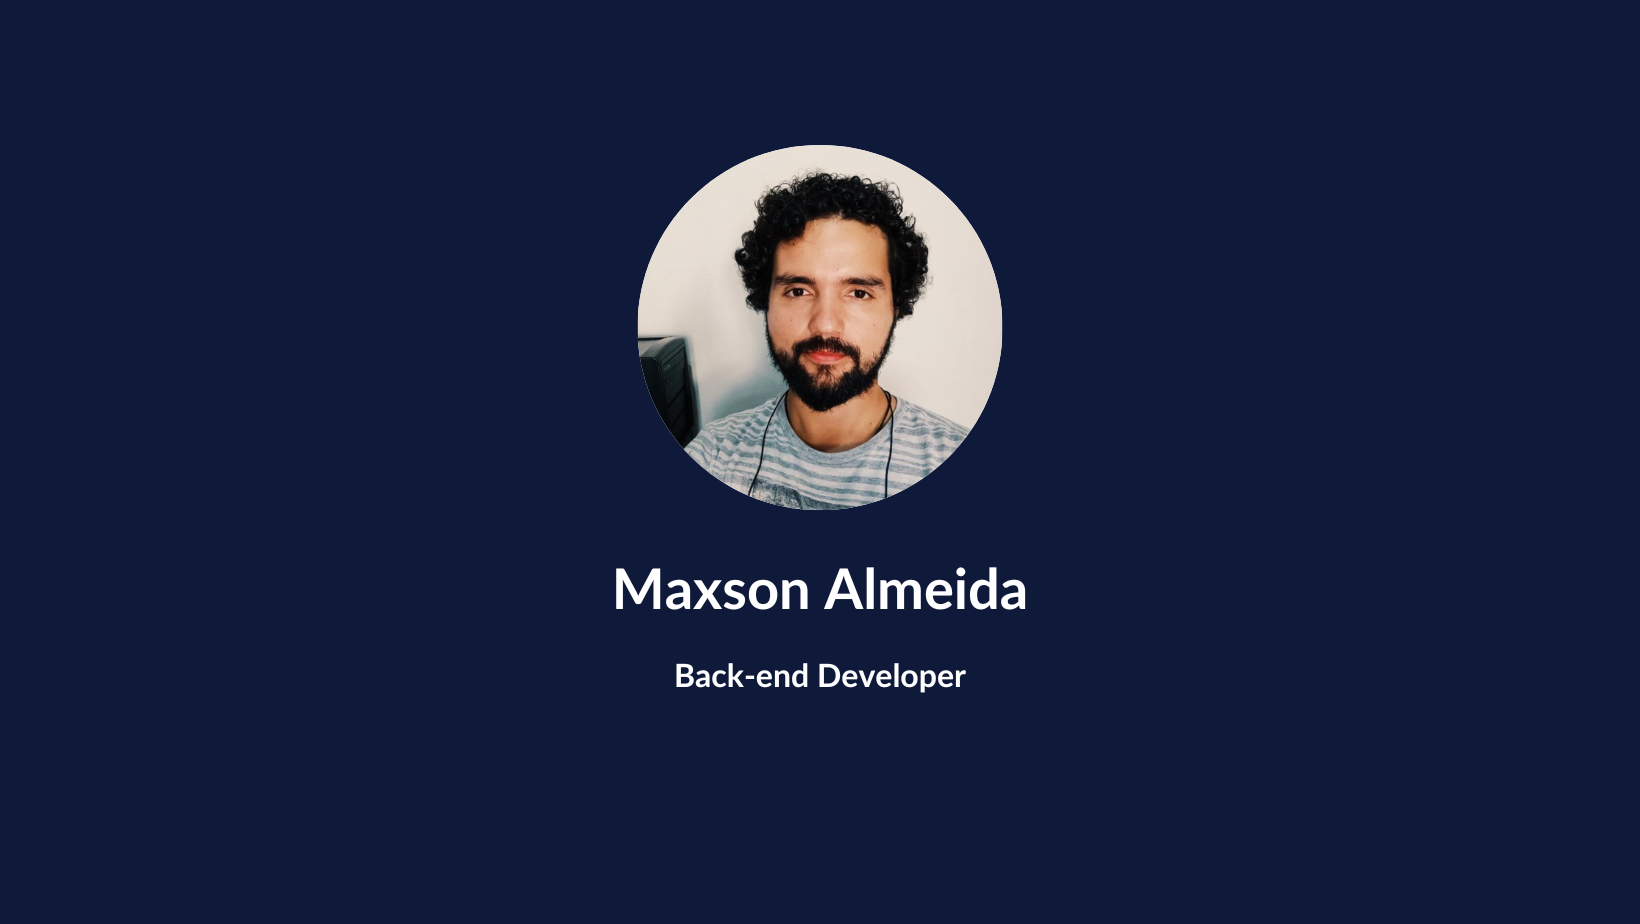
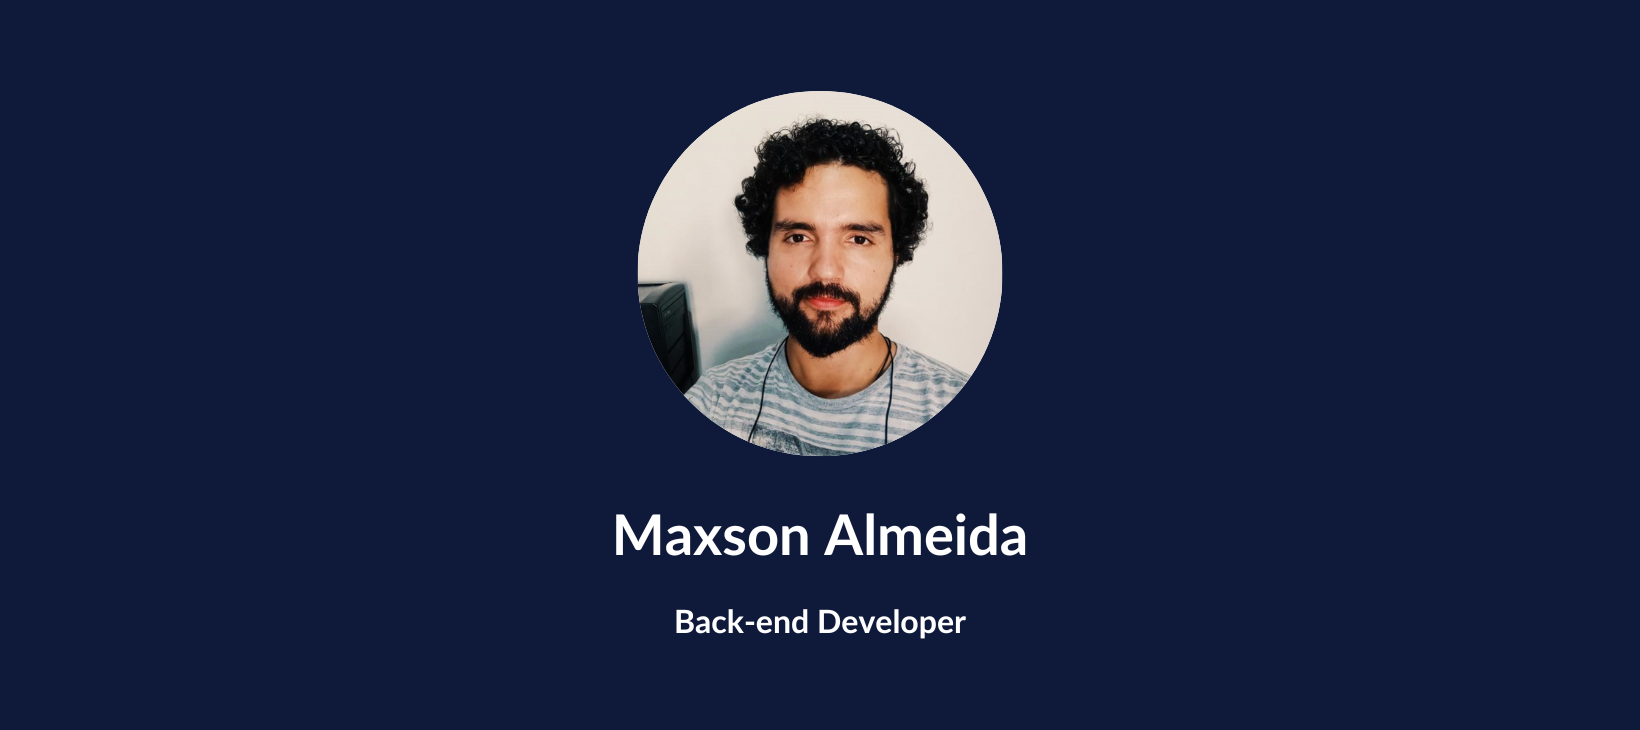
fix bug na pagina sobre

Changed region(s): [[0.3732, 0.1205, 0.653, 0.663], [0.3732, 0.6932, 0.653, 0.7836], [0.4043, 0.8438, 0.5909, 0.874]]

diff --git a/src/app/page.tsx b/src/app/page.tsx
@@ -13,6 +13,7 @@ import { Divider } from "@/components/divider";
 import avatar from "../../public/avatar.png";
 
 import linkBioLogo from "../imagens/projects/link.png";
+import apiRestNodeJS from "../imagens/projects/api.png";
 
 export default function Home() {
   return (
@@ -52,7 +53,9 @@ export default function Home() {
               <Link href="/about">Mais sobre mim</Link>
             </Button>
             <Button variant="outline" asChild>
-              <a href="/MaxsonAlmeidaBack-endDeveloper.pdf" target="_blank">
+              <a 
+              className='font-mono text-base text-text-contrast sm:text-lg'
+              href="/MaxsonAlmeidaBack-endDeveloper.pdf" target="_blank">
                 Currículo
               </a>
             </Button> 
@@ -68,11 +71,11 @@ export default function Home() {
         </h2>
 
         <div className="mt-14 flex flex-col gap-16 sm:gap-26">
+          {/* Projeto Link Bio */}
           <div
             key="1"
             className={clsx("relative flex", {
-              "justify-start": "left",
-              "justify-end": "right",
+              "justify-end ": "right",
             })}
           >
             <Link href="/projects/link-bio-nextjs">
@@ -80,6 +83,7 @@ export default function Home() {
                 <Image
                   src={linkBioLogo}
                   alt="Link Bio"
+                  placeholder="blur"
                   sizes="100%"
                   layout="fill"
                   className="object-cover transition-transform hover:scale-105 lg:hover:transform-none"
@@ -90,14 +94,14 @@ export default function Home() {
             <div
               className={clsx(
                 "flex w-full flex-col lg:absolute lg:top-1/2 lg:w-[430px] lg:-translate-y-1/2",
-                {
-                  "items-end right-0": "left",
-                  "items-start left-0": "right",
+                {                  
+                  
+                  "items-start left-0": "left",
                 },
               )}
             >
               <Link
-                href="/projects/2"
+                href="/projects/link-bio-nextjs"
                 className="text-text-base transition hover:text-text-contrast"
               >
                 <h3 className="text-2xl font-semibold leading-tight sm:text-3xl">
@@ -106,6 +110,10 @@ export default function Home() {
               </Link>
 
               <div className="mt-4 flex flex-wrap items-center gap-2">
+                <Chip>React</Chip>
+                <Chip>Next.js</Chip>
+                <Chip>Tailwind CSS</Chip>
+                <Chip>Typescript</Chip>
                 {/* {project.technologies.slice(0, 2).map((tech) => (
                   <Chip
                     key={tech.id}
@@ -140,18 +148,101 @@ export default function Home() {
                 )}
               >
                 <p className="leading-normal">
-                  É projeto para agregar mais informações no perfil das redes sociais, com NextJS 13 e Tailwind CSS.
+                  É um projeto para agregar mais informações no perfil das redes sociais, com NextJS 13 e Tailwind CSS.
                 </p>
               </div>
             </div>
           </div>
+          
+          {/* Projeto Api Rest Node JS*/}
+          <div
+            key="1"
+            className={clsx("relative flex", {
+              "justify-start ": "left",              
+            })}
+          >
+            <Link href="/projects/link-bio-nextjs">
+              <div className="absolute top-26 -z-10 h-[216px] w-full overflow-hidden rounded border border-accent-border lg:relative lg:top-auto lg:z-auto lg:h-[328px] lg:w-[602px]">
+                <Image
+                  src={apiRestNodeJS}
+                  alt="Api Rest Node JS"
+                  placeholder="blur"
+                  sizes="100%"
+                  layout="fill"
+                  className="object-cover transition-transform hover:scale-105 lg:hover:transform-none"
+                />
+              </div>
+            </Link>
+
+            <div
+              className={clsx(
+                "flex w-full flex-col lg:absolute lg:top-1/2 lg:w-[430px] lg:-translate-y-1/2",
+                {                  
+                  "items-end right-0": "left",
+                  
+                },
+              )}
+            >
+              <Link
+                href="/projects/apirestnode"
+                className="text-text-base transition hover:text-text-contrast"
+              >
+                <h3 className="text-2xl font-semibold leading-tight sm:text-3xl">
+                  Api Rest Node JS
+                </h3>
+              </Link>
+
+              <div className="mt-4 flex flex-wrap items-center gap-2">
+                <Chip>Node.js</Chip>
+                <Chip>Express</Chip>
+                <Chip>Typescript</Chip>
+                <Chip>PostgreSQL</Chip>
+                {/* {project.technologies.slice(0, 2).map((tech) => (
+                  <Chip
+                    key={tech.id}
+                    highlightColor={tech.highlightColor}
+                    asChild
+                  >
+                    <a
+                      href={tech.websiteUrl}
+                      target="_blank"
+                      rel="noreferrer"
+                    >
+                      <Image
+                        src={tech.image.url}
+                        alt={tech.name}
+                        width={18}
+                        height={18}
+                      />
+                      {tech.name}
+                    </a>
+                  </Chip> 
+                    ))}*/}
+
+              </div>
+
+              <div
+                className={clsx(
+                  "mt-40 w-[80vw] rounded bg-shape p-6 shadow-lg lg:mt-6 lg:w-auto",
+                  {
+                    "text-right": "left",
+                    "text-left": "right",
+                  },
+                )}
+              >
+                <p className="leading-normal">
+                  É um projeto para para praticar o uso do Node Js na construção de Api Rest, com uso de Express e PostgreSQL.
+                </p>
+              </div>
+            </div>
+          </div>    
 
         </div>
       </section>
 
       <section className="flex flex-col py-14 sm:pb-26 sm:pt-36">
         <h3 className="text-center text-2xl font-semibold sm:text-3xl">
-          Other Projects
+          Outros Projects
         </h3>
 
         <div className="mt-14 grid grid-cols-1 gap-6 sm:grid-cols-2 md:grid-cols-3 [&>a]:mx-auto">

diff --git a/src/app/about/page.tsx b/src/app/about/page.tsx
@@ -14,7 +14,7 @@ export const metadata: Metadata = {
 
 export const revalidate = 3600; // 1 hour
 
-export default async function AboutPage() {
+export default function AboutPage() {
 
   const formatDate = (date: string) => {
     return new Date(date).toLocaleDateString("en-US", {
@@ -26,13 +26,15 @@ export default async function AboutPage() {
   return (
     <main className="flex-1 items-center justify-center mt-20">
 
-      <section className="pb-14 pt-8 sm:pb-26 sm:pt-16">
+      <section className="pb-14 pt-8 sm:pb-24 sm:pt-16">
         <header className="flex items-center justify-between">
           <h1 className="text-3xl font-semibold leading-tight sm:text-4xl">
             Sobre
           </h1>
           <Button variant="outline" asChild>
-            <a href="/MaxsonAlmeidaBack-endDeveloper.pdf" target="_blank">
+            <a 
+            className='font-mono text-base text-text-contrast sm:text-lg'
+            href="/MaxsonAlmeidaBack-endDeveloper.pdf" target="_blank">
               Currículo
             </a>
           </Button>
@@ -42,7 +44,7 @@ export default async function AboutPage() {
           src={cover}
           alt=""
           width={946}
-          height={425}
+          height={380}
           quality={100}
           placeholder="blur"
           className="mt-4"
@@ -73,11 +75,13 @@ export default async function AboutPage() {
           <Chip>JavaScript</Chip>
           <Chip>React</Chip>
           <Chip>Next.js</Chip>
+          <Chip>Tailwind CSS</Chip>
+          <Chip>Typescript</Chip>
           <Chip>Node.js</Chip>
           <Chip>Express</Chip>
           <Chip>Git</Chip>
           <Chip>GitHub</Chip>
-          <Chip>Postgresql</Chip>
+          <Chip>PostgreSQL</Chip>
           <Chip>MongoDB</Chip>
           <Chip>Python</Chip>
           <Chip>Django</Chip>

diff --git a/.next/types/app/page.ts b/.next/types/app/page.ts
@@ -1,4 +1,4 @@
-// File: C:\Users\maxso\OneDrive\Documentos\GitHub\maxsonalmeida.dev\src\app\page.tsx
+// File: C:\Users\sindi\Documents\GitHub\maxsonalmeida.dev\src\app\page.tsx
 import * as entry from '../../../src/app/page.js'
 import type { ResolvingMetadata } from 'next/dist/lib/metadata/types/metadata-interface.js'
 
